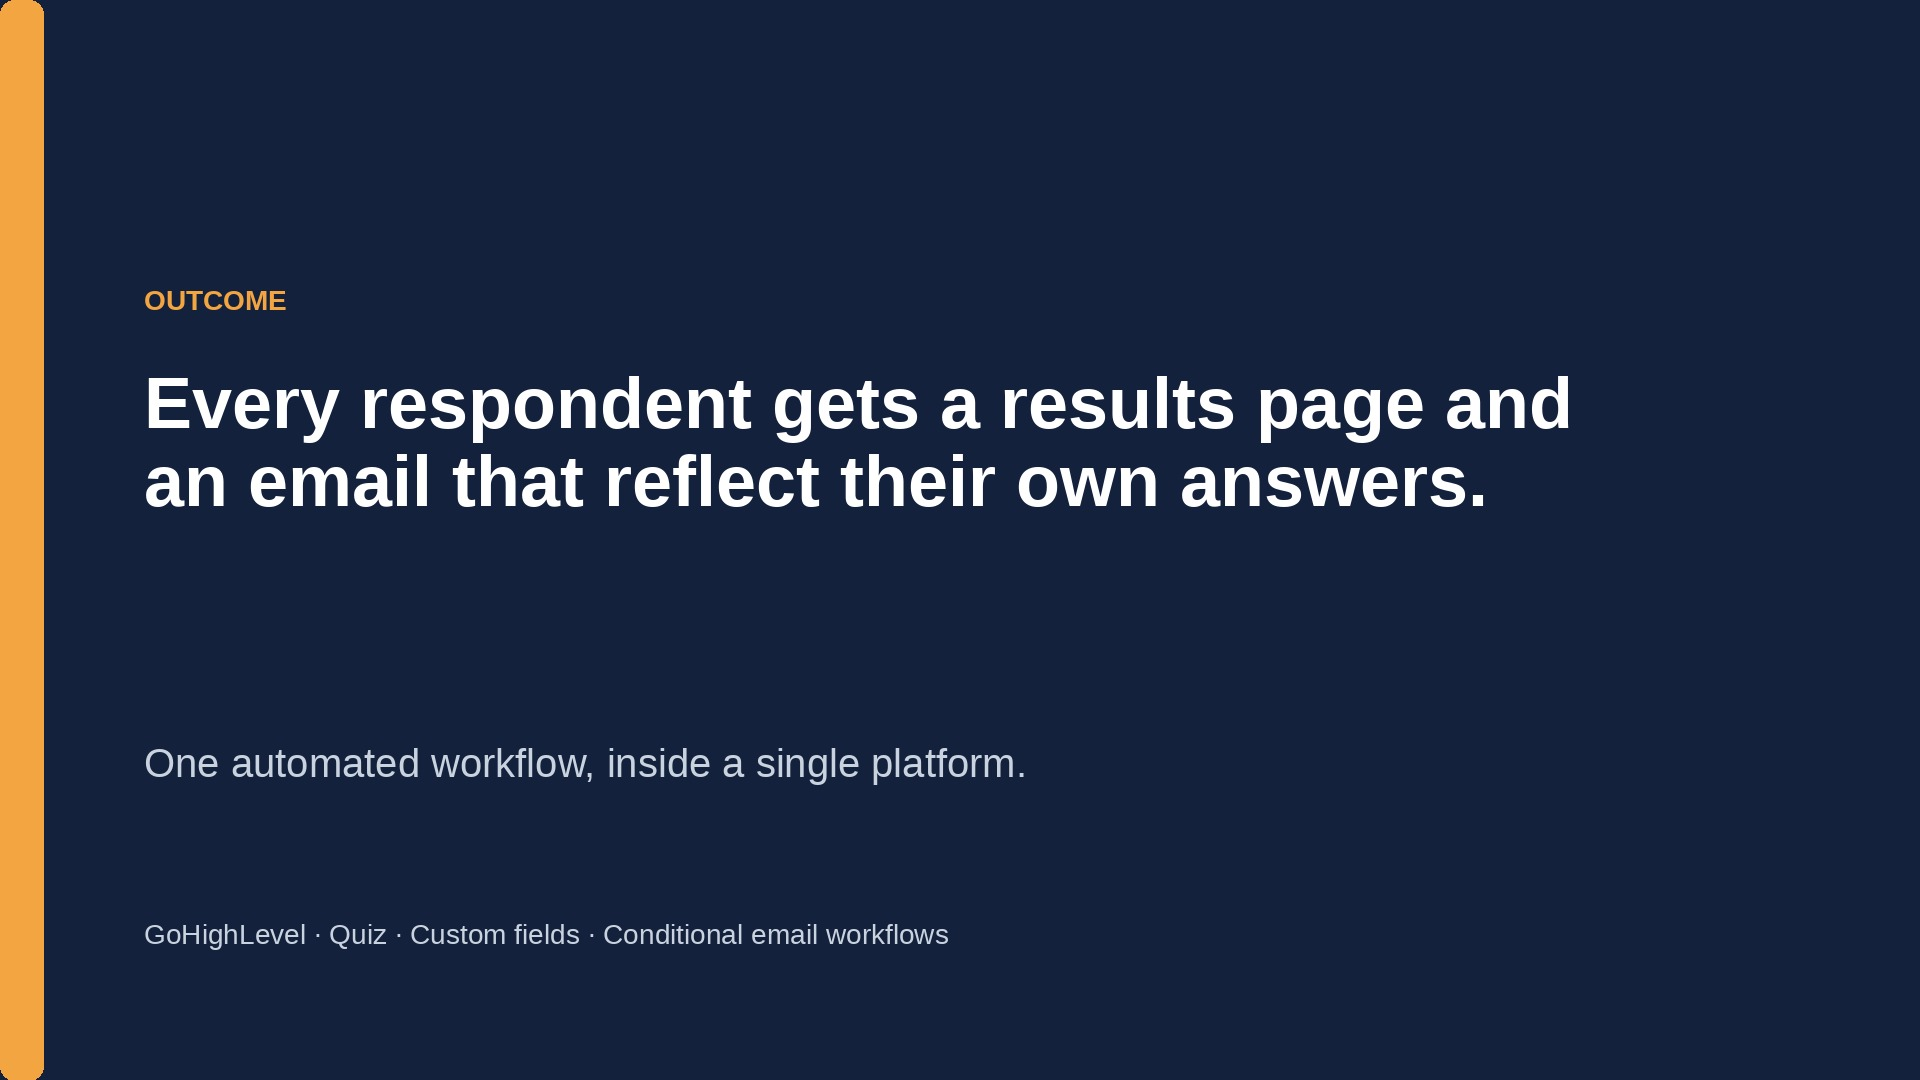
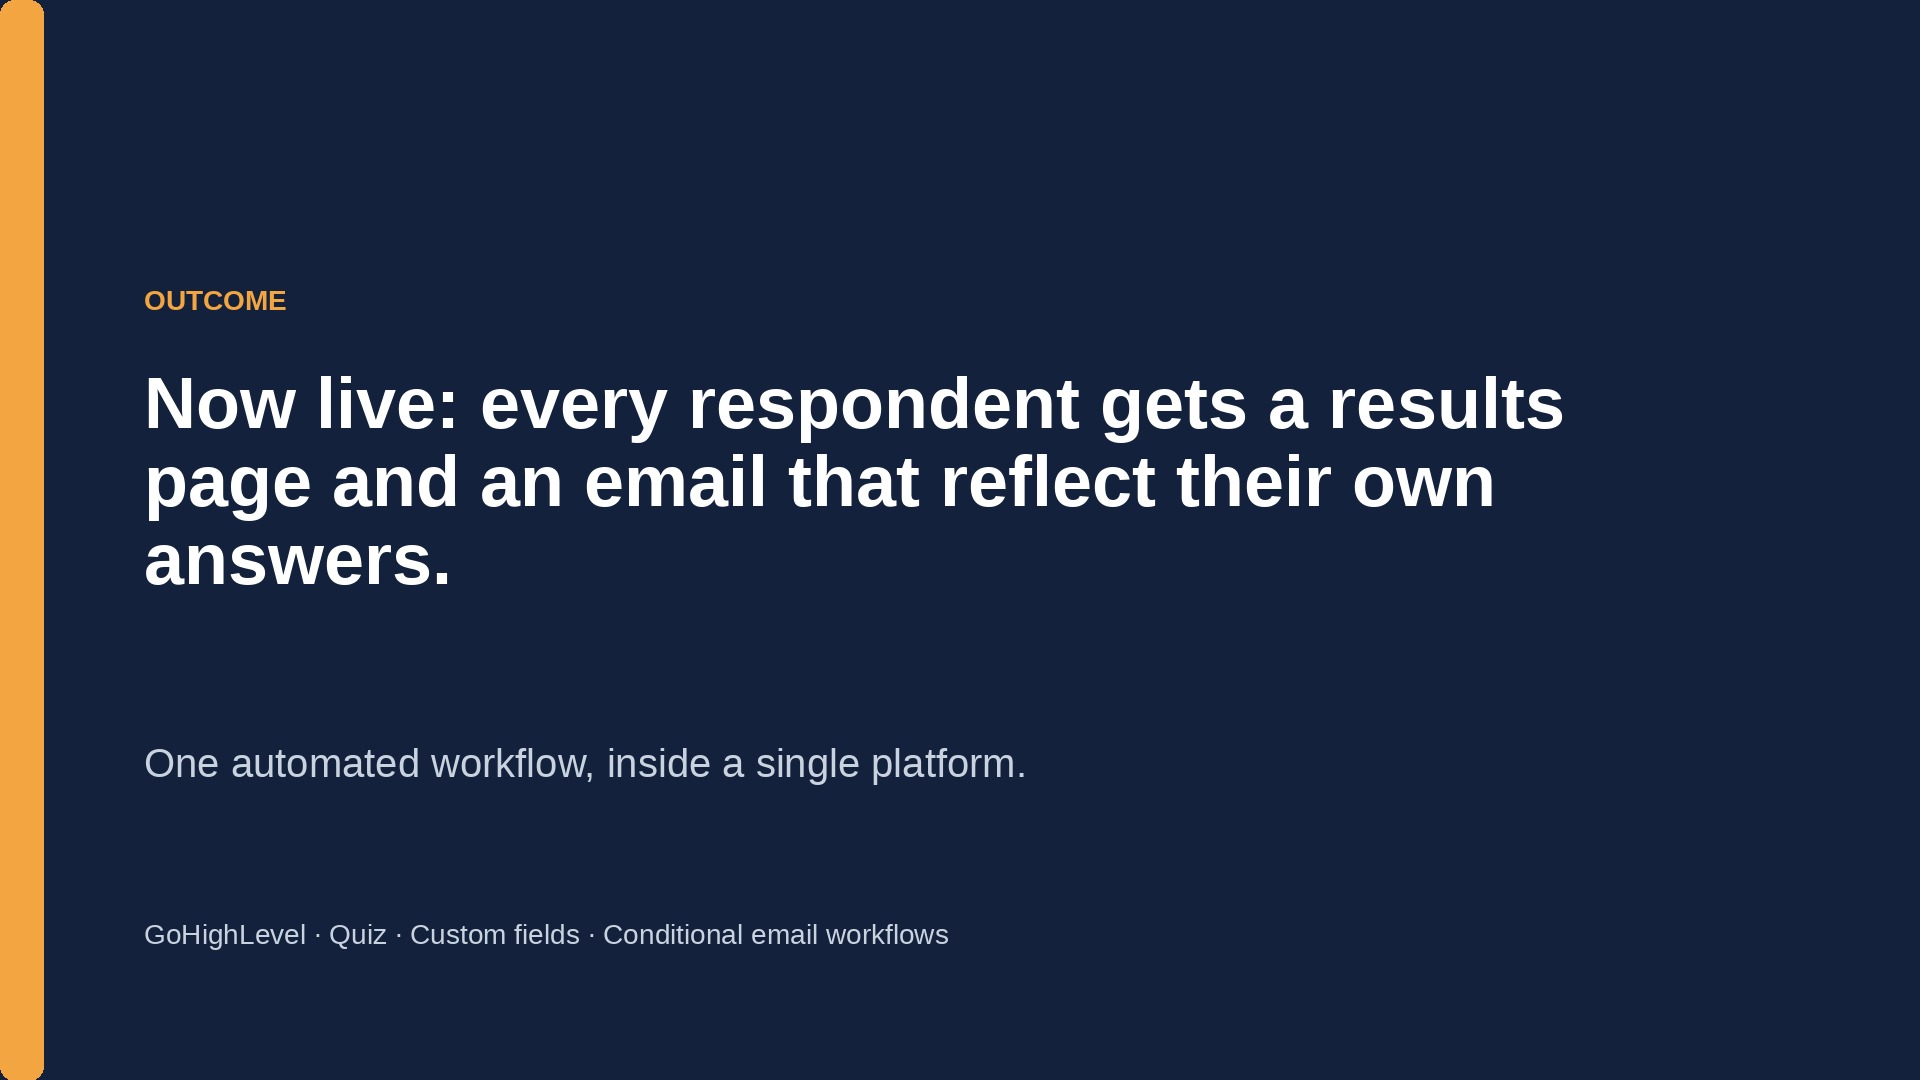
Replace webinar and assessment case studies and mark the funnel launched
Swap in the updated PDFs and decks, and record the assessment project as tested and live.

Changed region(s): [[0.0625, 0.3361, 0.8438, 0.55]]

diff --git a/src/data/site.ts b/src/data/site.ts
@@ -69,7 +69,7 @@ export const experience = [
       "Worked across Shopify, Kajabi, GoHighLevel, and Ivorey, supporting ecommerce websites through product updates, content management, landing page improvements, integrations, and marketing automation.",
       "Assisted with platform migrations including Groove to GoHighLevel and performed website audits to improve structure, usability, and client implementation.",
       "Delivered webinar systems and automation as freelance technical support — WebinarJam, Brevo, and WordPress landing and replay pages.",
-      "Building an assessment funnel on GoHighLevel after a move from Ivorey, including the domain connection: landing page, quiz, results page, and conditional email workflow, through testing and handover.",
+      "Launched an assessment funnel on GoHighLevel after a move from Ivorey, including the domain connection: landing page, quiz, results page, and conditional email workflow, tested and live.",
     ],
   },
   {
@@ -86,13 +86,13 @@ export const experience = [
   {
     title: "Assessment Quiz & Personalised Email Automation",
     org: "Freelance Support",
-    period: "2026 — In progress",
+    period: "2026 — Launched",
     bullets: [
       "Moved the build from Ivorey onto GoHighLevel, including the domain connection and DNS records.",
       "Built a single-page landing page with a link into an assessment quiz.",
       "Set up the in-platform results page that follows the quiz.",
       "Built a workflow that shows email content blocks from score bands and individual answers, including audience-specific versions.",
-      "Currently finishing the email build and testing before handover.",
+      "Finished the email build, completed end-to-end testing, and launched it live.",
     ],
   },
   {
@@ -326,7 +326,7 @@ export const projects: Project[] = [
     previewLabel: "Webinar Automation Case Study.pdf",
     pdfPath: "/docs/webinar-automation-case-study.pdf",
     pdfFileName: "Webinar Automation Case Study.pdf",
-    pdfPages: ["/docs/webinar-case/01.jpg", "/docs/webinar-case/02.jpg"],
+    pdfPages: ["/docs/webinar-case/01.jpg", "/docs/webinar-case/02.jpg", "/docs/webinar-case/03.jpg"],
     deckPath: "/decks/webinar/deck.json",
     deckFileName: "Webinar Automation Portfolio Deck.pptx",
     tone: "stone",
@@ -365,24 +365,24 @@ export const projects: Project[] = [
     title: "Assessment Quiz & Personalised Email Automation",
     kind: "Freelance Support",
     year: "2026",
-    period: "Final testing",
+    period: "Launched",
     summary:
-      "Quiz, results page, and conditional email logic in GoHighLevel. Freelance support for the hiring partner — not a direct client.",
+      "Quiz, results page, and conditional email logic in GoHighLevel. Built, tested, and launched as freelance support — not a direct client.",
     description:
-      "Freelance technical support on a team. The end client is the hiring partner's, not mine. I connected the domain from Ivorey to GoHighLevel, then built a single landing page, an assessment quiz, a native results page, and a workflow that assembles each follow-up email from conditional blocks. Final email testing is still underway, then handover to that partner.",
+      "Freelance technical support on a team. The end client is the hiring partner's, not mine. I connected the domain from Ivorey to GoHighLevel, then built a single landing page, an assessment quiz, a native results page, and a workflow that assembles each follow-up email from conditional blocks. The email build and end-to-end testing are done, and the funnel is live.",
     features: [
       "Platform move from Ivorey to GoHighLevel, including domain connection and DNS records",
       "Single-page landing page with a quiz entry point",
       "Assessment quiz and an in-platform results page",
       "Workflow with conditional email blocks from overall score and individual answers",
       "Audience-specific versions of the same block, routed by one answer",
-      "Email build and end-to-end testing still in progress, then handover",
+      "Email build and end-to-end testing completed, then launched",
     ],
     stack: ["GoHighLevel", "Ivorey"],
     previewLabel: "Assessment Automation Case Study.pdf",
     pdfPath: "/docs/assessment-automation-case-study.pdf",
     pdfFileName: "Assessment Automation Case Study.pdf",
-    pdfPages: ["/docs/assessment-funnel/01.jpg", "/docs/assessment-funnel/02.jpg"],
+    pdfPages: ["/docs/assessment-funnel/01.jpg", "/docs/assessment-funnel/02.jpg", "/docs/assessment-funnel/03.jpg"],
     deckPath: "/decks/assessment/deck.json",
     deckFileName: "Assessment Automation Portfolio Deck.pptx",
     tone: "ink",
@@ -404,7 +404,7 @@ export const projects: Project[] = [
       },
       {
         heading: "Where it stands",
-        body: "Most of the system is in place. The remaining work is the email content and a full test that each path sends the right blocks, then handover to the hiring partner.",
+        body: "Built, tested, and launched. Each respondent gets a results page and a personalised email from one workflow. This remains freelance support for the hiring partner, not a direct client.",
       },
       {
         heading: "Not included",
